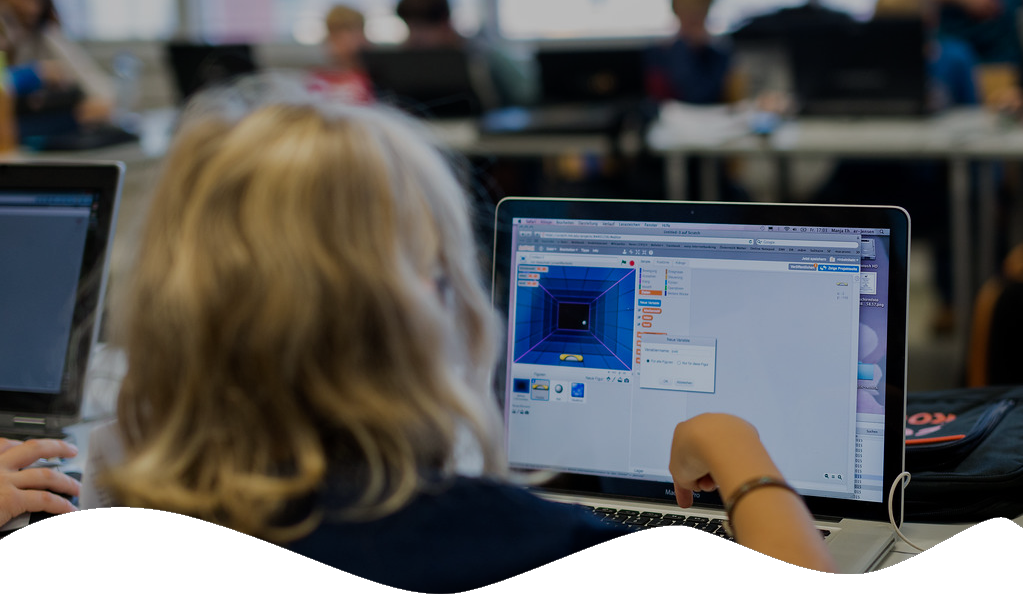
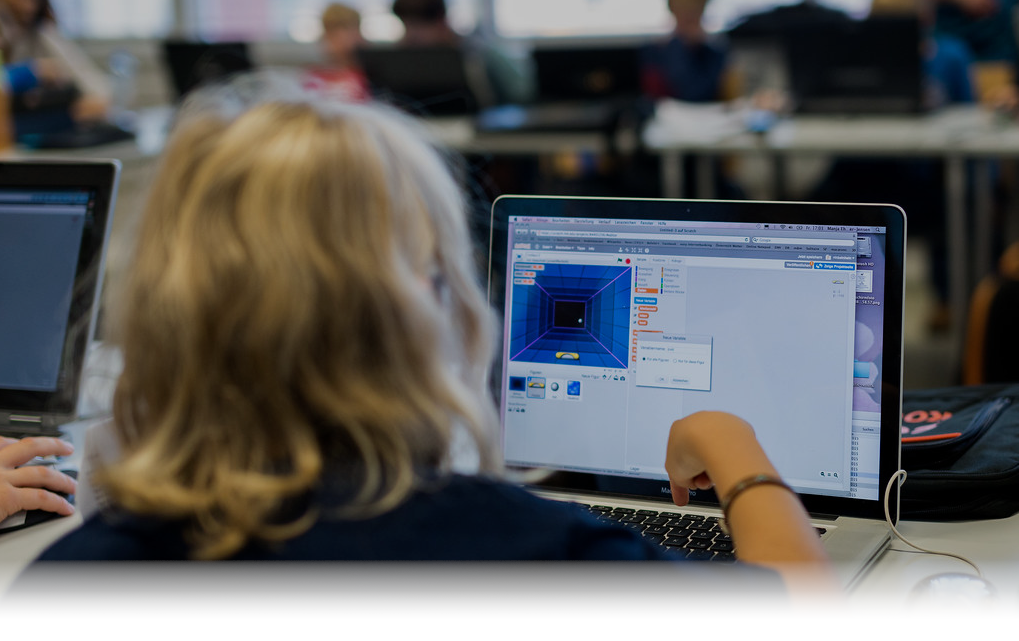
J: Home

diff --git a/templates/home.html b/templates/home.html
@@ -9,7 +9,7 @@
 
 {% block content %}
     <!-- cover image -->
-    <div class="cover-image" style="background-image: url('{% static 'img/home/child_blur_v3.png' %}');">
+    <div class="cover-image" style="background-image: url('{% static 'img/home/cover.png' %}');">
         <h1>CREA <span style="font-weight: bold">INSIEME A NOI</span> I TUOI VIDEOGIOCHI CON SCRATCH</h1>
         <h3>Fai il tuo primo passo nel mondo della programmazione <span style="font-weight: bold">con noi</span></h3>
         <div><a class="btn btn-primary px-4 mt-3" style="color: white" href="#">Registrati sul sito</a></div>
